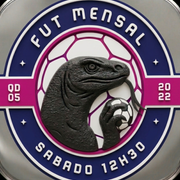
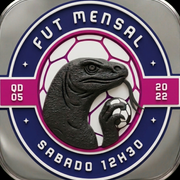
Ícones com moldura metálica scale 108%

diff --git a/scripts/generate-icons-final.js b/scripts/generate-icons-final.js
@@ -10,7 +10,7 @@ const ICONS_DIR = join(ROOT, 'public/icons');
 const PUBLIC_DIR = join(ROOT, 'public');
 
 const BG_COLOR = { r: 0, g: 0, b: 0, alpha: 1 };
-const SCALE = 1.12;
+const SCALE = 1.08;
 
 const STANDARD_SIZES = [48, 72, 96, 144, 192, 512, 1024];
 const APPLE_SIZES = [120, 152, 167, 180];
